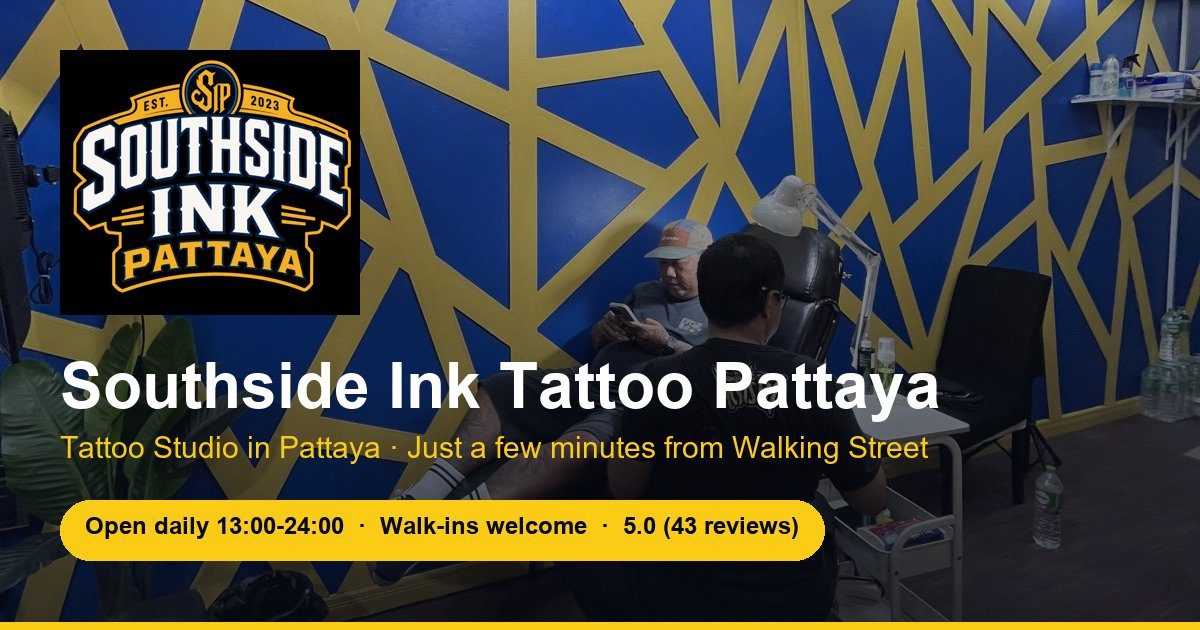
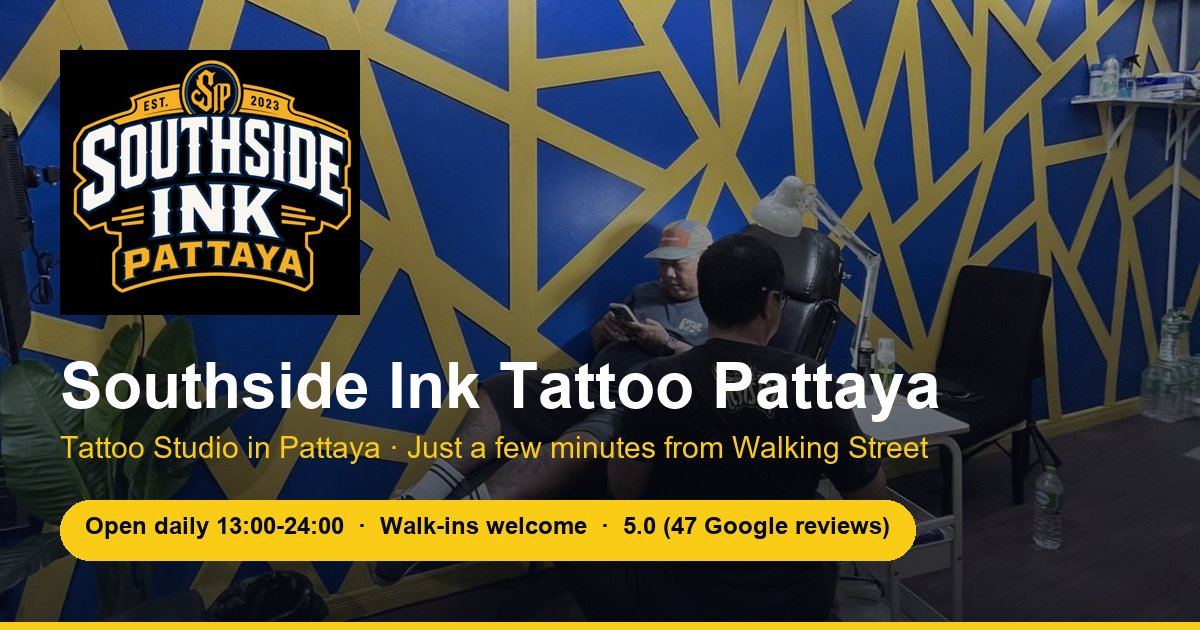
feat: รีวิวจริงจาก Google แทนข้อความเดิม + ตัวเลข 47 รีวิว + เร่งความเร็วมือถือ
- รีวิว 5 รายการจากหน้า Google ของร้าน (ชื่อผู้รีวิวตามที่แสดงสาธารณะ) แสดงคำแปลพร้อมป้ายกำกับเมื่อสลับภาษา
- คะแนน 5.0 จาก 47 รีวิว ตามข้อมูลจริง (เดิม 43) ทั้งหน้าเว็บ meta JSON-LD และรูป og
- hero ใช้ picture/srcset webp 800/1200/1600 ตามขนาดจอ + preload แบบ responsive
- Google Fonts โหลดแบบไม่บล็อกการวาดหน้า ลดน้ำหนักฟอนต์ที่ไม่ได้ใช้
- แคโรเซลรีวิวหยุดเมื่อชี้/แตะ และไม่เลื่อนเองเมื่อผู้ใช้ตั้งลดการเคลื่อนไหว
- sameAs ใน JSON-LD ชี้ Facebook และ Google Maps

diff --git a/src/App.jsx b/src/App.jsx
@@ -66,7 +66,7 @@ const CONTACT = {
 const I18N = {
   th: {
     nav: ["เกี่ยวกับเรา","สไตล์","ช่างสัก","ที่ตั้ง","ติดต่อ"],
-    heroKicker: "เปิดทุกวัน 13:00–24:00 · รับ Walk-in · 5.0★ 43 รีวิว",
+    heroKicker: "เปิดทุกวัน 13:00–24:00 · รับ Walk-in · 5.0★ 47 รีวิว",
     heroH1a: "ร้านสักพัทยา", heroH1b: "ห่างจาก Walking Street เพียงไม่กี่นาที",
     heroSub: "รับออกแบบและสักลายตามความต้องการของลูกค้า ครบทุกสไตล์ ช่างสักประสบการณ์มากกว่า 10 ปี สตูดิโอสะอาด ปลอดภัย",
     ctaBook: "ปรึกษา / จองคิว", ctaWorks: "ดูผลงาน",
@@ -99,7 +99,7 @@ const I18N = {
     artistDesc: "ช่างพลอยถนัดงาน Realistic แนว Black and Grey เก็บรายละเอียดสูง ทั้งภาพเหมือนบุคคลและลายนักรบโบราณตามแบบที่ลูกค้าต้องการ ใส่ใจทุกรายละเอียด มาสร้างผลงานชิ้นเอกของคุณกับเราได้เลย",
     artistTags: ["Realistic","Black & Grey","Portrait","Ancient Warrior"],
     artistBtn: "ดูผลงานช่างใน Facebook",
-    reviewsTitle: "ลูกค้าพูดถึงเรา", reviewsLink: "ดูรีวิวทั้งหมดใน Google (5.0★ 43 รีวิว)",
+    reviewsTitle: "ลูกค้าพูดถึงเรา", reviewsLink: "ดูรีวิวทั้งหมดใน Google (5.0★ 47 รีวิว)", translated: "แปลจากภาษาอังกฤษ",
     locTitle: "ที่ตั้งร้าน",
     locName: "Southside Ink Pattaya",
     locAddr: ["133/9 หมู่ 10 เมืองพัทยา","อำเภอบางละมุง จังหวัดชลบุรี 20150","ใกล้ Walking Street พัทยา"],
@@ -128,7 +128,7 @@ const I18N = {
   },
   en: {
     nav: ["About us","Style","Artist","Locations","Contact"],
-    heroKicker: "Open daily 13:00–24:00 · Walk-ins welcome · 5.0★ 43 reviews",
+    heroKicker: "Open daily 13:00–24:00 · Walk-ins welcome · 5.0★ 47 reviews",
     heroH1a: "Tattoo Studio in Pattaya", heroH1b: "Just a few minutes from Walking Street.",
     heroSub: "We create custom tattoos tailored to your ideas and preferences, offering a wide range of tattoo styles. Our tattoo artists have over 10 years of experience, and our studio is clean, safe, and hygienic.",
     ctaBook: "Get a Quote", ctaWorks: "View works",
@@ -161,7 +161,7 @@ const I18N = {
     artistDesc: "Artist Ploy of Southside Ink Tattoo Pattaya demonstrates the highest level of expertise. With a specialization in realistic, hyper-detailed black and grey work, including custom portraits and ancient warrior designs, Ploy's skill and attention to detail are exceptional. Come and get your custom masterpiece.",
     artistTags: ["Realistic","Black & Grey","Portrait","Ancient Warrior"],
     artistBtn: "See artist works on Facebook",
-    reviewsTitle: "What clients say", reviewsLink: "See all reviews on Google (5.0★ 43 reviews)",
+    reviewsTitle: "What clients say", reviewsLink: "See all reviews on Google (5.0★ 47 reviews)", translated: "translated from Thai",
     locTitle: "Locations",
     locName: "Southside Ink Pattaya",
     locAddr: ["133/9 M.10 Muang Pattaya","Bang Lamung, Chonburi 20150","Near Walking Street, Pattaya"],
@@ -214,20 +214,23 @@ function IconClock() {
   return <svg viewBox="0 0 24 24" width="16" height="16" fill="none" stroke="currentColor" strokeWidth="2" strokeLinecap="round" strokeLinejoin="round" aria-hidden="true"><circle cx="12" cy="12" r="9"/><path d="M12 7v5l3 2"/></svg>
 }
 
-const REVIEWS = {
-  th: [
-    { name: 'Anna M. · UK', text: 'งานเนี๊ยบมาก พี่ช่างใส่ใจมาก สะอาด ปลอดภัย แนะนำดีสุดๆ' },
-    { name: 'Mark T. · AU', text: 'Best tattoo in Pattaya! Clean, pro, fair price. Done fine line script perfect.' },
-    { name: 'คุณฟ้า · กทม', text: 'สักครั้งแรกไม่เจ็บอย่างที่คิด ช่างมือเบา อธิบายดูแลละเอียด กลับมาซ้ำแน่นอนค่ะ' },
-    { name: 'Lisa K. · DE', text: 'Cover up old tattoo — looks brand new! Design was adjusted 3 times until perfect.' },
-  ],
-  en: [
-    { name: 'Anna M. · UK', text: 'Super clean and precise, artist cares a lot, safe and well advised.' },
-    { name: 'Mark T. · AU', text: 'Best tattoo in Pattaya! Clean, pro, fair price. Done fine line script perfect.' },
-    { name: 'Khun Fah · BKK', text: 'First tattoo, less painful than expected, gentle hand and clear aftercare.' },
-    { name: 'Lisa K. · DE', text: 'Cover up old tattoo — looks brand new! Design was adjusted 3 times until perfect.' },
-  ],
-}
+const REVIEWS = [
+  { name: 'Hatari Nangngam', lang: 'en',
+    text: 'Looking for the best tattoo shop in Pattaya? Look no further! The studio is exceptionally clean, hygienic, and follows strict safety standards. The artists are incredibly talented, speak great English, and make you feel completely at ease. They also offer fair prices with no hidden tourist traps. Highly recommend!',
+    th: 'กำลังมองหาร้านสักที่ดีที่สุดในพัทยาอยู่ใช่ไหม ไม่ต้องมองหาที่ไหนอีกแล้ว สตูดิโอสะอาดถูกสุขอนามัย ปฏิบัติตามมาตรฐานความปลอดภัยอย่างเคร่งครัด ช่างสักฝีมือดี พูดภาษาอังกฤษได้ดี ทำให้รู้สึกสบายใจ ราคาเป็นธรรม ไม่มีกลโกงนักท่องเที่ยว แนะนำเลย' },
+  { name: 'Tanaphat Satchanon', lang: 'th',
+    text: 'บริการดีครับ ช่างเป็นกันเองมากๆ งานถือว่าออกมาได้ดีน่าพอใจ',
+    en: 'Great service. The artist is very friendly and the work came out really well.' },
+  { name: 'Poonchida Poonpawas', lang: 'th',
+    text: 'ร้านบริการดีมากค่ะ ช่างสักมือเบามาก แนะนำร้านนี้ค่ะ',
+    en: 'Excellent service. The artist has a very gentle hand. I recommend this shop.' },
+  { name: 'Kran2539 Tt', lang: 'th',
+    text: 'ใครสนใจรอยสัก เข้าไปสอบถามกับช่างที่ร้านได้เลยครับ ช่างแนะนำดีมาก เป็นกันเองด้วย',
+    en: 'If you are interested in a tattoo, just walk in and talk to the artist. Great advice and very friendly.' },
+  { name: 'GlorFinNum', lang: 'th',
+    text: 'งานสักสวยสุดๆ ไม่เจ็บมากด้วย',
+    en: 'The tattoo turned out beautifully, and it did not hurt much.' },
+]
 
 export default function App() {
   const [lang, setLang] = useState(() => {
@@ -260,9 +263,12 @@ export default function App() {
     pickStyle(target === undefined ? label : target)
     scrollTo('style')
   }
-  const SHOP_SRC = SHOP.map(id => `${base}images/works/${id}.jpg`)
   const SHOP_THUMB = SHOP.map(id => `${base}images/works/thumb/${id}.jpg`)
-  const reviews = REVIEWS[lang]
+  const reviews = REVIEWS.map(r => {
+    const translated = r.lang !== lang
+    const text = translated ? (lang === 'th' ? r.th : r.en) : r.text
+    return { name: r.name, text, translated }
+  })
 
   useEffect(() => {
     try { localStorage.setItem('southside-lang', lang) } catch { /* storage blocked */ }
@@ -309,10 +315,13 @@ export default function App() {
     document.body.style.overflow = 'hidden'
     return () => { window.removeEventListener('keydown', onKey); document.body.style.overflow = '' }
   }, [lightbox, PORTFOLIO.length])
+  const [reviewPaused, setReviewPaused] = useState(false)
   useEffect(() => {
-    const id = setInterval(() => setReviewIdx(v => (v + 1) % reviews.length), 3800)
+    if (reviewPaused) return
+    if (window.matchMedia && window.matchMedia('(prefers-reduced-motion: reduce)').matches) return
+    const id = setInterval(() => setReviewIdx(v => (v + 1) % reviews.length), 5000)
     return () => clearInterval(id)
-  }, [reviews.length])
+  }, [reviews.length, reviewPaused])
 
   const navLink = (id, i) => (
     <a key={id} href={`#${id}`} onClick={(e) => { e.preventDefault(); scrollTo(id) }}>{L.nav[i]}</a>
@@ -344,7 +353,10 @@ export default function App() {
 
       <main id="top" className="oc-main">
         <section className="oc-hero">
-          <img className="oc-hero-img" src={SHOP_SRC[0]} alt="" aria-hidden="true" fetchPriority="high" />
+          <picture>
+            <source type="image/webp" srcSet={`${base}images/hero/shop-800.webp 800w, ${base}images/hero/shop-1200.webp 1200w, ${base}images/hero/shop-1600.webp 1600w`} sizes="(max-width: 768px) 100vw, 1140px" />
+            <img className="oc-hero-img" src={`${base}images/hero/shop-1200.jpg`} srcSet={`${base}images/hero/shop-800.jpg 800w, ${base}images/hero/shop-1200.jpg 1200w, ${base}images/hero/shop-1600.jpg 1600w`} sizes="(max-width: 768px) 100vw, 1140px" alt="" aria-hidden="true" fetchPriority="high" decoding="async" />
+          </picture>
           <div className="oc-hero-shade" aria-hidden="true" />
           <div className="oc-hero-inner">
             <div className="oc-kicker">{L.heroKicker}</div>
@@ -433,13 +445,13 @@ export default function App() {
           </div>
           <div className="oc-reviews">
             <h3>{L.reviewsTitle}</h3>
-            <div className="oc-carousel">
+            <div className="oc-carousel" onMouseEnter={() => setReviewPaused(true)} onMouseLeave={() => setReviewPaused(false)} onTouchStart={() => setReviewPaused(true)}>
               <div className="oc-track" style={{ transform: `translateX(-${reviewIdx * 100}%)` }}>
                 {reviews.map(r => (
                   <div key={r.name} className="oc-review">
                     <div className="oc-stars" aria-label="5 stars">★★★★★</div>
                     <p>“{r.text}”</p>
-                    <small>{r.name}</small>
+                    <small>{r.name} · Google{r.translated ? ` · ${L.translated}` : ''}</small>
                   </div>
                 ))}
               </div>

diff --git a/index.html b/index.html
@@ -9,11 +9,11 @@
     <meta name="viewport" content="width=device-width, initial-scale=1.0" />
     <meta
       name="description"
-      content="Southside Ink Tattoo Pattaya — ร้านสักพัทยา ห่างจาก Walking Street ไม่กี่นาที เปิดทุกวัน 13:00–24:00 รับ Walk-in ช่างสักประสบการณ์กว่า 10 ปี Realism, Black & Grey, Japanese, Fine Line และทุกสไตล์ 5.0★ 43 รีวิว"
+      content="Southside Ink Tattoo Pattaya — ร้านสักพัทยา ห่างจาก Walking Street ไม่กี่นาที เปิดทุกวัน 13:00–24:00 รับ Walk-in ช่างสักประสบการณ์กว่า 10 ปี Realism, Black & Grey, Japanese, Fine Line และทุกสไตล์ 5.0★ 47 รีวิว"
     />
     <title>Southside Ink Tattoo Pattaya — ร้านสักพัทยา ใกล้ Walking Street</title>
     <meta property="og:title" content="Southside Ink Tattoo Pattaya — ร้านสักพัทยา ใกล้ Walking Street" />
-    <meta property="og:description" content="133/9 ม.10 เมืองพัทยา เปิดทุกวัน 13:00–24:00 · รับ Walk-in · ทุกสไตล์ Realism / Black & Grey / Japanese / Fine Line · 5.0★ 43 รีวิว · LINE Ponair1" />
+    <meta property="og:description" content="133/9 ม.10 เมืองพัทยา เปิดทุกวัน 13:00–24:00 · รับ Walk-in · ทุกสไตล์ Realism / Black & Grey / Japanese / Fine Line · 5.0★ 47 รีวิว · LINE Ponair1" />
     <meta property="og:image" content="https://southsideinkpattaya.com/og.jpg" />
     <meta property="og:image:width" content="1200" />
     <meta property="og:image:height" content="630" />
@@ -33,16 +33,18 @@
         "hasMap": "https://maps.app.goo.gl/5ewABJZuthpYTu2v8",
         "image": "https://southsideinkpattaya.com/og.jpg",
         "url": "https://southsideinkpattaya.com/",
+        "sameAs": ["https://www.facebook.com/ploytattoopt", "https://maps.app.goo.gl/5ewABJZuthpYTu2v8"],
         "openingHours": "Mo-Su 13:00-24:00",
-        "aggregateRating": { "@type": "AggregateRating", "ratingValue": "5.0", "reviewCount": "43" }
+        "aggregateRating": { "@type": "AggregateRating", "ratingValue": "5.0", "reviewCount": "47" }
       }
     </script>
-    <link rel="preload" as="image" href="images/works/1uZSA_1RswqRn_pAMW9wQx62ORcIEG1_Y.jpg" fetchpriority="high" />
+    <link rel="preload" as="image" imagesrcset="images/hero/shop-800.webp 800w, images/hero/shop-1200.webp 1200w, images/hero/shop-1600.webp 1600w" imagesizes="(max-width: 768px) 100vw, 1140px" fetchpriority="high" />
     <meta property="og:locale" content="th_TH" />
     <meta property="og:locale:alternate" content="en_US" />
     <link rel="preconnect" href="https://fonts.googleapis.com">
     <link rel="preconnect" href="https://fonts.gstatic.com" crossorigin>
-    <link href="https://fonts.googleapis.com/css2?family=IBM+Plex+Sans+Thai:wght@300;400;500;600;700&family=IBM+Plex+Mono:wght@400;500;600;700&display=swap" rel="stylesheet">
+    <link rel="preload" as="style" href="https://fonts.googleapis.com/css2?family=IBM+Plex+Sans+Thai:wght@400;600;700&family=IBM+Plex+Mono:wght@400;700&display=swap" onload="this.rel='stylesheet'">
+    <noscript><link rel="stylesheet" href="https://fonts.googleapis.com/css2?family=IBM+Plex+Sans+Thai:wght@400;600;700&family=IBM+Plex+Mono:wght@400;700&display=swap"></noscript>
   </head>
   <body>
     <div id="root"></div>
